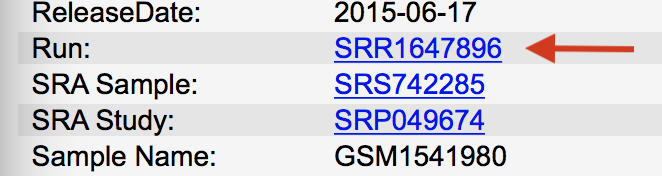
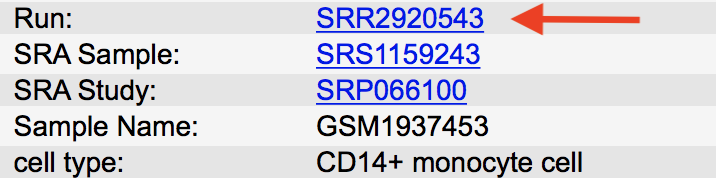
Updates

diff --git a/pages/virtual_environments.md b/pages/virtual_environments.md
@@ -5,7 +5,7 @@ description: Using virtual environments in bioinformatics
 ---
 
 On this page we will download the package manager called *CONDA* and use it to create a virtual environment and to 
-download the packages we need to run the tutorial. Although it was initially created for python packages it now
+download the packages we need to run the tutorial. Although it was initially created for python packages *CONDA* now
 distributes packages across programming languages.
 
 ***
@@ -14,10 +14,10 @@ distributes packages across programming languages.
 
 There are a few different conda distributions to be aware of.
 
-+ Anaconda - conda + 150 most common python packages
-+ Miniconda - just conda, packages need to be installed separately
-+ Bioconda - bioinformatics specific packages
-+ Source forge - python packages uploaded by anayone
++ **Anaconda** - conda + 150 most common python packages
++ **Miniconda** - just conda, packages need to be installed separately
++ **Bioconda** - bioinformatics specific packages
++ **Source forge** - python packages uploaded by anayone
 
 We will download miniconda and install the other packages we need individually. Navigate 
 [here](https://conda.io/miniconda.html) and download the latest version of conda relevant
@@ -36,11 +36,12 @@ Once conda is installed check which version you have by typing `conda -V`.
 
 ### Python versions
 
-It’s important to note that different versions of particular language exist and some programs may only work properly 
-within a particular version of a language. As many bioinformatics scripts are written in python, older 
+It’s important to note that different versions of particular language exist and programs may only work properly 
+within a particular *version* of a language. As many bioinformatics scripts are written in python, older 
 packages can be python 2 specific; python 2 is syntactically distinct from python 3. This means that if we want 
-to use a program written in python 2 and our default python version is python 3 we need to chnage this explicitly by
-altering the default in you environment or calling python 2 in the shebang of your script.
+to use a program written in python 2 and our default python version is python 3 we need to change this explicitly by
+altering the default in the environment we're working in or calling python 2 explicitly in the shebang of 
+your script.
 
 As we downloaded miniconda 3, our default python environment is python 3. We can check this by typing `python -V`.   
 
@@ -57,26 +58,29 @@ executable for python 3 in the miniconda bin directory that we just downloaded.
 
 ### Setting up a virtual environment
 
-In the scope section, we discussed assigning variables in local and global environments. When we create a virtual 
-environment we are creating an isolated environment for our project of interest. This allows us to download 
-packages and control the conditions of that environment independently of the global environment of the system we are 
-working on, but crucially, to use the same environmental conditions on different machines/clusters. 
+When we create a virtual environment we are creating an isolated environment for our project of interest. This allows 
+us to download packages and control the conditions of that environment semi-independently of the global environment of 
+the system we are working on, but crucially, to use the same environmental conditions on different machines/clusters. 
 
 Another advantage of using virtual environments is that downloading new packages into your home location on your 
 computer cluster usually requires special super user privilages. Using virtual environments is a means to circumnavigate
 these privilage issues.
 
+In the scope section, we discussed assigning variables in local and global environments. Dowloading packages in specfic
+environments works similarly. If we download a package in our home or global environemnt the will be accessible in 
+virtual environemnts, but packages downloaded in a virtual environment cannot be accessed globally.
+
 ***
 
 #### Create the sra2Peak environment
 
-First of all we create our virtual environment that uses python 3 as the default.
+First of all we create a virtual environment called **sra2peak** that uses python 3 as the default.
 
 ~~~bash
 conda create --name sra2peak
 ~~~
 
-Take a note of where the environment has been created after the **environment located section** something like
+Take a note of where the environment has been created after the '**environment located section**' something like
 
 ~~~bash
 /Users/darren/Programs/miniconda3/envs/sra2peak
@@ -95,11 +99,12 @@ the bioinformatics specific conda repository. Any dependencies these packages ne
 conda install -c bioconda sra-tools fastqc multiqc bowtie2 samtools bedtools bedops homer
 ~~~   
 
-This will generate a list of all the packages and dependencies that will be installed. Type **y** to proceed. 
+This generates a list of all the packages and dependencies that will be installed. Type **y** to proceed. 
 
-Now most of the packages you need for this walkthrough are installed in the **sra2peak** virtual environment. However,
-one package `macs2` is written in python 2 so we need to create a sceond virtual environment for that, so let's 
-deactivate the **sra2peak** environment first.
+Now most of the packages you need for this walkthrough are installed in the **sra2peak** virtual environment. 
+
+However, one package `macs2` is written in python 2 so we need to create a sceond virtual environment for that, so 
+let's deactivate the **sra2peak** environment first.
 
 ~~~bash
 source deactivate sra2peak
@@ -110,8 +115,8 @@ source deactivate sra2peak
 
 #### Create the macs2 environment
 
-We create our macs2 environment in similar fashion however we specify the python version as 2.7 here. Typing **y** 
-to proceed whenevr required.
+We create our macs2 environment in similar fashion however we specify the python version here as 2.7. Type **y** 
+to proceed whenever required.
 
 ~~~bash
 conda create --name macs2 python=2.7
@@ -125,8 +130,7 @@ conda install -c bioconda macs2
 
 You are now set to run all the operations in this walkthrough. 
 
-
-
+***
 
 Move on to [Getting Started]({{ site.baseurl }}/pages/getting_started.html),
 or back to [Installing required packages]({{ site.baseurl }}/pages/installing_required_packages.html)

diff --git a/pages/get_sra_info.md b/pages/get_sra_info.md
@@ -6,8 +6,8 @@ description: Where to get SRA files, and what SRA files are
 
 ### What is an [SRA file](https://en.wikipedia.org/wiki/Sequence_Read_Archive)?
 
-SRA stands for sequence read archive and the archive is a bioinformatics database for DNA sequencing data. 
-SRA files are stored in the archive and can come in many formats `.bam`, `.bed` etc. but, in this tutorial,
+SRA stands for sequence read archive. SRA files are stored on bioinformatics databases that store DNA 
+sequencing data. SRA files are stored in many formats `.bam`, `.bed` etc. but, in this tutorial,
 we are interested in downloading `.fastq` SRA files.
 
 ### Where are the files stored?
@@ -17,18 +17,18 @@ repository containing array- and sequenced based data. Although other repositori
 access permissions, many groups opt to post their data on GEO. 
 
 Obtaining SRA files from GEO repositories can be quite confusing. See [here](https://www.biostars.org/p/111040/)
-for tips. The best method I've found so far is described below. 
+for tips. The best method I've found so far to download files is described below. 
 
 We need to find the SRA numbers for the files we are interested in and annotate them in a sensible way so we 
-can keep track of the files as they move through the pipeline and understand what they are if we come back to 
-2 years from now. TThis is probably the most important part of the whole process as you can easily make a 
-typo somewhere and download a completely different file from a different study!
+can keep track of the files as they move through the pipeline and to easily recognise them if we come back to 
+look at them 2 years from now. This is probably the most important part of the whole process as you can easily 
+make a typo somewhere and download a completely different file from a different study!
 
 ***
 
 ### Open a text editor
 
-We start by opening a text file in our home folder on ROCKS.
+We start by opening a text file in our home folder.
 
 ~~~bash
 nano sra_files.txt
@@ -38,7 +38,7 @@ This opens a new `.txt` file called '*sra_files*' in the text editor called `nan
 many use `vim`, but nano is fine for our purposes here. We want to copy all the SRA numbers of the SRA files 
 we're interested in into this file. 
 
-Leave the `nano` window open, and in your web browser navigate to this GEO page in a separtae tab (use the GEO 
+Leave the `nano` window open, and in your web browser navigate to this GEO page in a separate tab (use the GEO 
 link above). 
 
 ***
@@ -49,16 +49,14 @@ Normally you'll be directed to a GEO repository from a paper you are interested 
 a GEO accession number like **GSEXXXXX** which is the code for the central page containing the data associated 
 with the study.
 
-The accession number for our study is **GSE63137**. Type this into the box that says '*Keyword or GEO Accession*'
+The accession number for our study is **GSE74912**. Type this into the box that says '*Keyword or GEO Accession*'
 and hit 'SEARCH'.
 
 This takes you to the main page for our study of interest. This page provides a brief summary of the study, 
 contact details for the PIs and, if you scroll down to the 'Samples' section and hit 'More', you can see what 
-types of data are stored in the repo. We can see there are data for 31 samples in total with 6 ATAC-seq samples 
-and 11 ChIP-seq samples.
+types of data are stored in the repo. We can see there are data for 31 samples in total with 130 ATAC-seq samples.
 
-
-Go back to the top of the page and click the `Query DataSets for GSE63137` link.
+Go back to the top of the page and click the `Query DataSets for GSE74912` link.
 
 ***
 
@@ -87,11 +85,23 @@ SRR1647895.
 Note: Occasionally there are more than one SRA files per replicate, this means that the data was generated over 
 multiple lanes in the sequencer and the files would need to be merged in the in the pipeline.
 
-There is some other important information here. Notice under `LibraryLayout:` it says `SINGLE` this means the data 
-is single ended rather than paired ended, we need to know this as it will influence some of the parameters we need to 
+There is some other important information here. Notice under `LibraryLayout:` it says *PAIRED* this means the data 
+is paired ended rather than single ended, we need to know this as it will influence some of the parameters we need to 
 specify later on.
 
-For now copy an paste the SRA numbers for all 17 replicates into the text file one file per line.
+For now copy and paste the SRA numbers for 4 replicates into the text file one file per line. The first two are CD14+ 
+Monocyte ATAC-seq data files and the last two are CD8+ Tcell ATAC-seq data files. These cells were extracted from 
+peripheral blood.
+
+~~~bash
+SRR2920543
+SRR2920542
+SRR2920521
+SRR2920520
+~~~
+
+The first two are CD14+ Monocyte ATAC-seq data files and the last two are CD8+ T cell ATAC-seq data files. These cells 
+were extracted from peripheral blood. Entries 56,57, 78 and 79. 
 
 As alluded to earlier, it is important to keep an accurate record of the replicate information each SRA 
 number refers to. This study is annotated fairly clearly, but this is not always the case. At this stage I usually

diff --git a/pages/getting_started.md b/pages/getting_started.md
@@ -22,31 +22,38 @@ If we try to output a file to a non-existant location most programs will throw a
 To make	a directory we use the `mkdir` command.
 
 ~~~bash
-mkdir bickmore2016_hMG_ChIP_study
+mkdir Corces2016_BloodATAC
 ~~~
 
 This creates a file for our study with an informative name using the first author and the date of our study
-of interest and some information about the cell type of interest and the functional genomics technique used
+of interest and some information about the cell type and functional genomics technique used
 in the study.
 
 Next move into the new directory and create a series of sub-directories to store all the files we are going 
 generate.
 
 ~~~bash
-cd bickmore2016_hMG_ChIP_study
+cd Corces2016_BloodATAC
 ~~~
 
 ~~~bash
-mkdir -p sra_files fastq_files/FastQC genomes_and_index_files sam_files bam_files bed_files scripts output
+mkdir -p sra_files fastq_files/FastQC genomes_and_index_files sam_files bam_files bed_files \
+scripts output
 ~~~
 
-This creates individual directories for all the files we intend to generate. Most a self explanatory, however
+This creates individual directories for all the files we intend to generate. Most are self explanatory, however
 the `output` directory is for any output generated our pipeline and I always include a scripts folder to store
 any additional scripts I generate. Notice that we have created a nested folder structure in the fastq_files
 folder. 
 
 The `-p` flag tells the program to search for the file we wish to create and to only create a new one if the 
 file does not already exist. 
+
+Your *Corces2016_BloodATAC* directory should look something like this.
+
+***
+
+![fileList]({{ site.baseurl }}/assets/fileList.png)
 
 ***
 
@@ -107,5 +114,5 @@ If we want to actually change the names of the files listed above we just remove
 ***
 
 Move on to [Get SRA file information]({{ site.baseurl }}/pages/get_sra_info.html), or 
-back to [Installing required packages]({{ site.baseurl }}/pages/installing_required_packages.html).
+back to [Virtual Environments]({{ site.baseurl }}/pages/virtual_environments.html).
 
